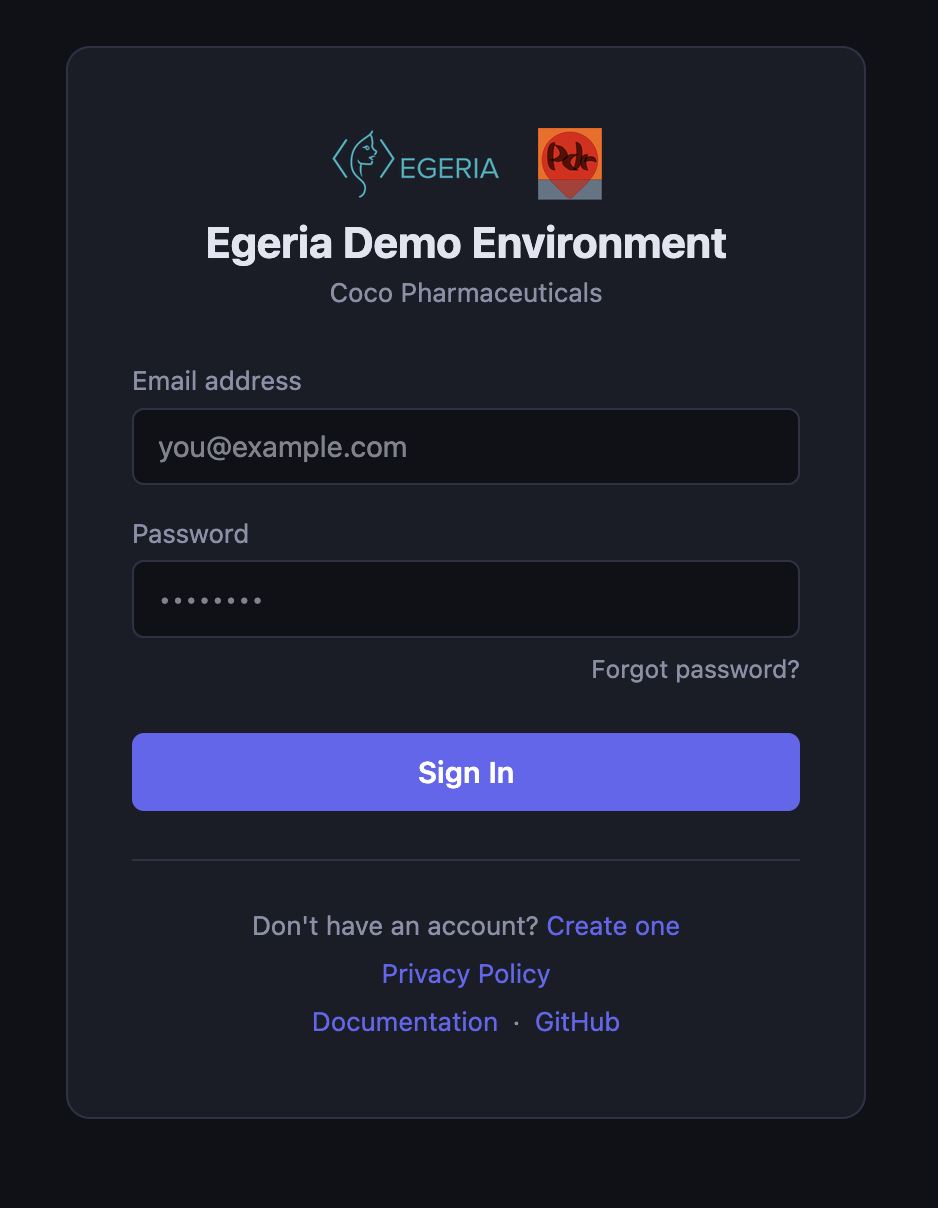
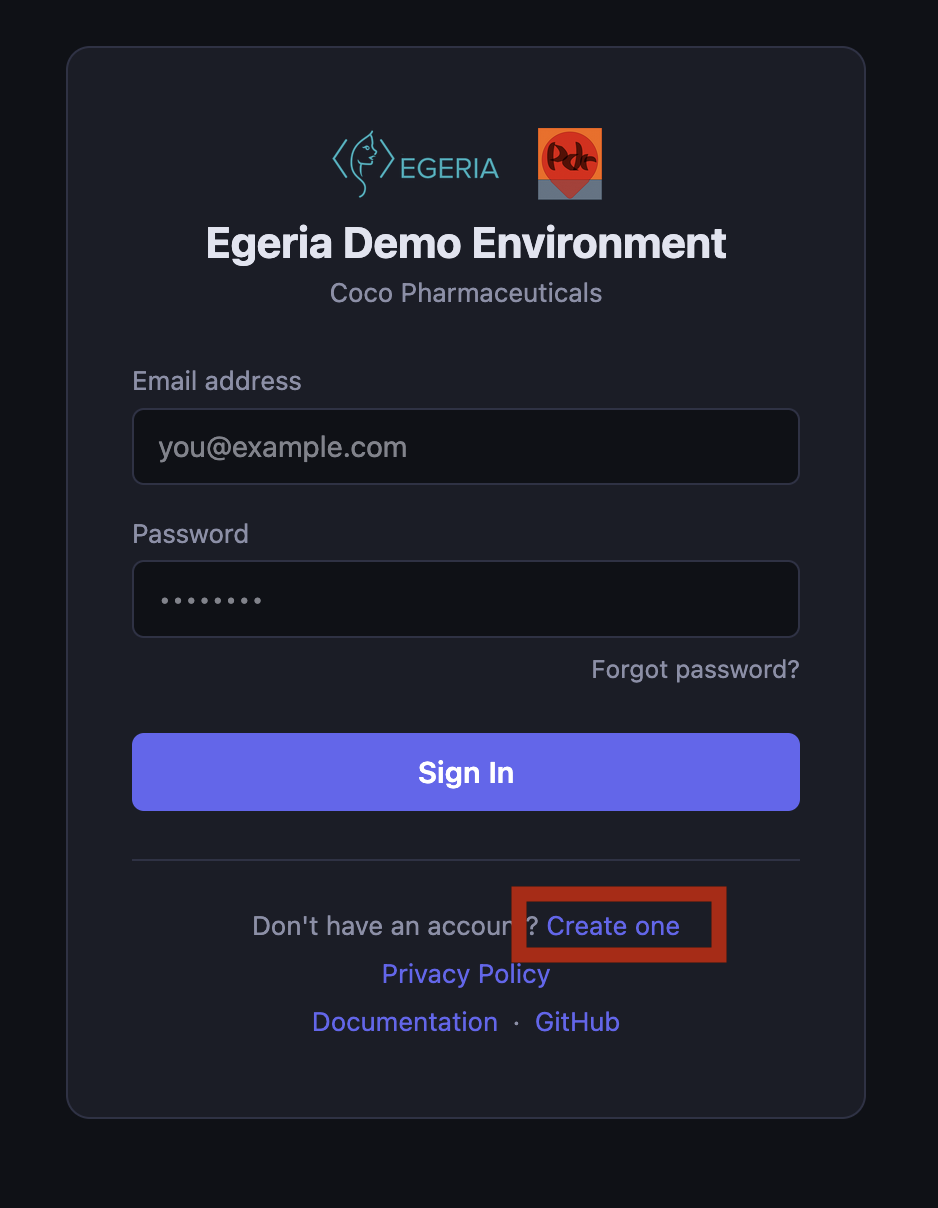
Add highlevel descriptions of new user interfaces and demo environment

Changed region(s): [[0.5256, 0.7351, 0.7729, 0.7964]]

diff --git a/site/docs/egeria-workspaces/demo-environment/overview.md b/site/docs/egeria-workspaces/demo-environment/overview.md
@@ -1,0 +1,38 @@
+
+
+<!-- SPDX-License-Identifier: CC-BY-4.0 -->
+<!-- Copyright Contributors to the Egeria project. -->
+
+# Egeria's Demo Environment
+
+[Pragmatic Data Research](https://pdr-associates.com/) has kindly offered to host a version of [Egeria Quickstart](/egeria-workspaces/quick-start/overview) on their website.  You can access it at [https://egeria.pdr-associates.com](https://egeria.pdr-associates.com).  It is a public environment that is reset each day so you cannot store your own metadata in it, if you want to keep it, that is :).  It is also possible that a previous user may have already run some labs.  
+
+## Registering for the Demo Environment
+
+The first time you access the demo environment, you will be prompted to register.  This is a simple process that involves providing your name and email address.  
+
+![Logon Screen](egeria-demo-logon.png)
+> Initial logon screen
+
+![Registration Screen](request-to-login-register.png)
+> Select **Create One** to register.
+
+![Registration Screen](egeria-demo-logon-2.png)
+> Confirm your email address.
+
+
+Once you have registered, you will be able to access the demo environment and start working through the labs.
+
+## The Demo Environment Portal
+
+Once you have logged on, you can explore the different uer interfaces.  First select your persona.  This will provide you with a user account to log oinot Egeria.  The different persona have different access privileges, so you may see different detail depending on the person you select.
+
+![Demo Environment Portal](egeria-demo-portal-2.png)
+> The demo environment.
+
+This environment is changing rapidly as we containerise more tools and service, so check back regularly.  Also there is a feedback button on each page.  Please let us know if your experience is good or bad.  We are keen to improve both the navigation and the function on offer.
+
+!!! attention "Security"
+    The demo environment is public and is reset each day.  Do not add any private information into it.
+
+--8<-- "snippets/abbr.md"

diff --git a/site/docs/user-interfaces/egeria-explorer/overview.md b/site/docs/user-interfaces/egeria-explorer/overview.md
@@ -1,7 +1,36 @@
+---
+hide:
+- toc
+---
+
 <!-- SPDX-License-Identifier: CC-BY-4.0 -->
 <!-- Copyright Contributors to the Egeria project. -->
 
 # Egeria Explorer
+
+**Egeria Explorer** is a user interface for exploring open metadata.  It provides a navigable view of the open metadata knowledge graph, and allows users to browse and search for the detail they need.
+
+This is the home page for Egeria Exploere.  Each tile is an entry point into Egeria's knowledge graph.
+
+![Egeria Explorer](egeria-explorer.png)
+> This is the home page showing the different entry points into Egeria's knowldege graph.
+
+Once you select a tile, the list of matching elements is displayed.  You can filter the list or select an element to see its detail.
+
+![View of a solution blueprint](solution-blueprint-display.png)
+> This is the detail page for a specific element.
+
+On the detail page it is possible to see the properties of the element, its mermaid graphs, and the lists of relationships to other elements.  There are buttons and links to navigate to related elements.
+
+Egeria Explorer also provides access to reference information. For example, the **Type Explorer** tile takes you to a navigable view of the open metadata type system that acts as the schema of the open metadata knowledge graph. 
+
+![View of a type definition](context-event-type.png)
+> This is the detail page for a type definition.
+
+The **Valid Values** tile lists the valid value sets for open metadata properties.  
+
+![View of a valid value list](deployedImplementationType-valid-values.png)
+> This is the detail page for a valid value.  It is for *deployedImplementationType which identifies the different types of technology recognised by Egeria.
 
 --8<-- "snippets/work-in-progress.md"
 

diff --git a/site/docs/user-interfaces/my-egeria/overview.md b/site/docs/user-interfaces/my-egeria/overview.md
@@ -11,5 +11,14 @@ hide:
 
 --8<-- "snippets/work-in-progress.md"
 
+My Egeria is a interface to help you build a personalized view into open metadata.  You can set up your profile, share your views and collaborate with others.  It is possible to build favourite collections and subscribe to digital products.
+
+My Egeria runs on the command line, or in a web browser.
+
+![My Egeria HomePage](my-egeria.png)
+> This is the home page for My Egeria.
+
+![My Egeria](my-egeria-2.png)
+> This is the view of different catalogs in open metadata
 
 --8<-- "snippets/abbr.md"

diff --git a/site/docs/user-interfaces/hey-egeria/overview.md b/site/docs/user-interfaces/hey-egeria/overview.md
@@ -1,3 +1,8 @@
+---
+hide:
+- toc
+---
+
 <!-- SPDX-License-Identifier: CC-BY-4.0 -->
 <!-- Copyright Contributors to the Egeria project. -->
 

diff --git a/site/docs/egeria-workspaces/index.md b/site/docs/egeria-workspaces/index.md
@@ -9,7 +9,7 @@ There are two choices of environment provided by Egeria Workspaces: **Quickstart
 
 ![Egeria Workspaces](egeria-workspaces-environments.svg)
 
-If you are new to Egeria and want to find out what it does, you should start with the [Quickstart environment](/egeria-workspaces/quickstart).  If you are already familiar with Egeria and want to use it for your own projects, you should use the [Freshstart environment](/egeria-workspaces/freshstart).
+If you are new to Egeria and want to find out what it does, you should start with the [Quickstart environment](/egeria-workspaces/quick-start/overview).  If you are already familiar with Egeria and want to use it for your own projects, you should use the [Freshstart environment](/egeria-workspaces/fresh-start/overview).
 
 ## What is included?
 

diff --git a/site/docs/user-interfaces/dr-egeria/overview.md b/site/docs/user-interfaces/dr-egeria/overview.md
@@ -1,7 +1,3 @@
----
-hide:
-- toc
----
 
 <!-- SPDX-License-Identifier: CC-BY-4.0 -->
 <!-- Copyright Contributors to the Egeria project. -->